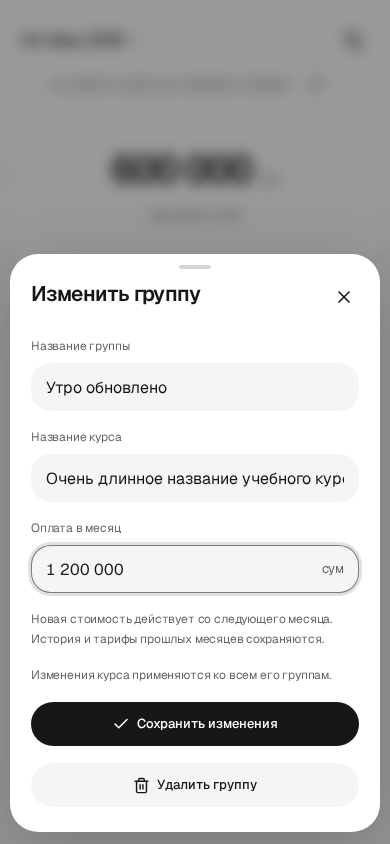
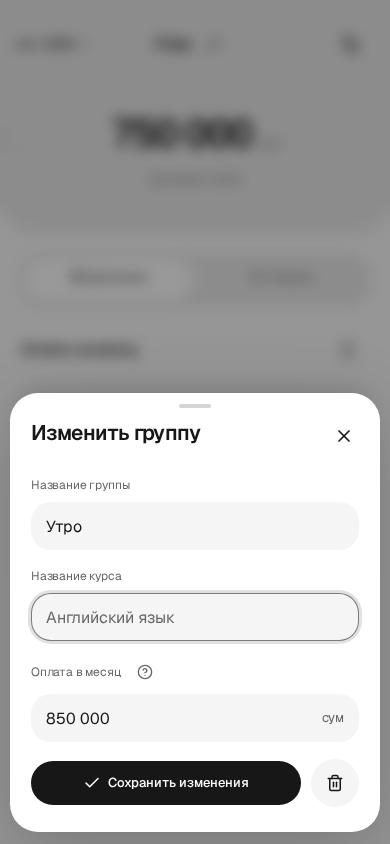
Make group course read-only and move delete beside save

diff --git a/web/Groups.tsx b/web/Groups.tsx
@@ -3,7 +3,7 @@ import { useState, type FormEvent } from 'react';
 import { Check, Plus, Trash2 } from 'lucide-react';
 import { groupPatchSchema, groupSchema, type Course, type Group } from '../src/contracts';
 import { api, ApiError } from './api';
-import { AmountField, ConfirmDelete, Spinner, StudentSelect } from './components';
+import { AmountField, ConfirmDelete, Spinner, StudentSelect, Tip } from './components';
 import { useI18n } from './i18n';
 
 export type GroupDraft = { name: string; courseId: string };
@@ -127,7 +127,6 @@ export function GroupEditor({
 }) {
   const { t } = useI18n();
   const [name, setName] = useState(group.name);
-  const [courseName, setCourseName] = useState(group.courseName);
   const [amount, setAmount] = useState(moneyInput(group.monthlyAmount, group.currency));
   const [busy, setBusy] = useState(false);
   const [error, setError] = useState('');
@@ -138,7 +137,6 @@ export function GroupEditor({
     if (busy) return;
     const parsed = groupPatchSchema.safeParse({
       name,
-      courseName,
       monthlyAmount: parseMoneyInput(amount, group.currency),
     });
     if (!parsed.success) {
@@ -176,43 +174,30 @@ export function GroupEditor({
     <>
       <form className="form" onSubmit={submit} noValidate aria-busy={busy}>
         <fieldset disabled={busy}>
-          {[
-            {
-              id: 'edit-group-name',
-              key: 'name',
-              label: t('Название группы'),
-              value: name,
-              onChange: setName,
-            },
-            {
-              id: 'edit-course-name',
-              key: 'courseName',
-              label: t('Название курса'),
-              value: courseName,
-              onChange: setCourseName,
-            },
-          ].map((field) => (
-            <label className="field" key={field.id} htmlFor={field.id}>
-              <span>{field.label}</span>
-              <input
-                id={field.id}
-                value={field.value}
-                maxLength={80}
-                required
-                onChange={(event) => {
-                  field.onChange(event.target.value);
-                  setErrors({});
-                }}
-                aria-invalid={Boolean(errors[field.key])}
-                aria-describedby={errors[field.key] ? `${field.id}-error` : undefined}
-              />
-              {errors[field.key] && (
-                <span className="field-error" id={`${field.id}-error`}>
-                  {t(errors[field.key]![0]!)}
-                </span>
-              )}
-            </label>
-          ))}
+          <label className="field" htmlFor="edit-group-name">
+            <span>{t('Название группы')}</span>
+            <input
+              id="edit-group-name"
+              value={name}
+              maxLength={80}
+              required
+              onChange={(event) => {
+                setName(event.target.value);
+                setErrors({});
+              }}
+              aria-invalid={Boolean(errors.name)}
+              aria-describedby={errors.name ? 'edit-group-name-error' : undefined}
+            />
+            {errors.name && (
+              <span className="field-error" id="edit-group-name-error">
+                {t(errors.name[0]!)}
+              </span>
+            )}
+          </label>
+          <label className="field" htmlFor="edit-course-name">
+            <span>{t('Название курса')}</span>
+            <input id="edit-course-name" value={group.courseName} readOnly />
+          </label>
           <AmountField
             id="edit-group-amount"
             label={t('Оплата в месяц')}
@@ -230,22 +215,26 @@ export function GroupEditor({
               {t(error)}
             </p>
           )}
-          <button className="button primary full" type="submit" disabled={busy}>
-            {busy ? <Spinner /> : <Check size={18} />}
-            {t('Сохранить изменения')}
-          </button>
-          <button
-            className="button secondary full danger-text"
-            type="button"
-            disabled={busy}
-            onClick={() => {
-              setError('');
-              setConfirm(true);
-            }}
-          >
-            <Trash2 size={17} />
-            {t('Удалить группу')}
-          </button>
+          <div className="form-actions">
+            <button className="button primary" type="submit" disabled={busy}>
+              {busy ? <Spinner /> : <Check size={18} />}
+              {t('Сохранить изменения')}
+            </button>
+            <Tip label={t('Удалить группу')}>
+              <button
+                className="button secondary round-action danger-text"
+                type="button"
+                aria-label={t('Удалить группу')}
+                disabled={busy}
+                onClick={() => {
+                  setError('');
+                  setConfirm(true);
+                }}
+              >
+                <Trash2 size={18} />
+              </button>
+            </Tip>
+          </div>
         </fieldset>
       </form>
       <ConfirmDelete

diff --git a/web/style.css b/web/style.css
@@ -2240,3 +2240,8 @@ html.theme-revealing::view-transition-old(root) {
 .wallet-group-name:not(:has(.group-edit-button)) .hero-group-copy {
   max-width: 100%;
 }
+
+.field input[readonly] {
+  color: var(--muted);
+  cursor: default;
+}

diff --git a/docs/VERIFICATION.md b/docs/VERIFICATION.md
@@ -187,3 +187,11 @@ Popover открывается нажатием/тапом и hover мыши; н
 Проверка на отдельной in-memory БД: пустые обе вкладки, создание группы через создание курса и возврат без потери черновика, автоматический выбор нового курса, точный groupId в POST ученика, короткое название с соседним карандашом, длинные названия на 360/390/720/1280px без переполнения, reduced-motion, закрепление строки при scrollY=900 и работа её кнопок. Светлая и тёмная темы прошли axe WCAG AA с прежним исключением meta-viewport. Снимки: wallet-light.png, wallet-dark.png, group-student-form.png, wallet-sticky.png. TypeScript, production-сборка и ESLint пройдены. Серверные расчёты и рабочая БД не менялись.
 
 Дополнительно проверены удержание → перемещение пальца → отпускание для выбора группы без смены месяца, клавиатурная навигация и axe в раскрытых списках с длинными названиями. Ошибок JavaScript нет. Сканирование исходников и сборки на рабочие секреты пройдено. Статика опубликована атомарной заменой HTML с сохранением старых assets; анонимная проверка локального адреса и прежнего Cloudflare URL подтвердила /health 200 и точное совпадение HTML/JS/CSS с проверенной сборкой. Физический iPhone/Safari в этом проходе не проверялся.
+
+## Неизменяемое поле курса в редактировании группы
+
+Поле «Название курса» в форме группы доступно только для чтения, его значение не включается в PATCH. Название группы и месячная сумма остаются редактируемыми. Удаление перенесено в круглую кнопку с одной иконкой справа от «Сохранить изменения»; сохранены доступное имя, подсказка и отдельное подтверждение.
+
+Изолированный Chromium/Playwright-проход пройден: ввод не меняет курс; запрос не содержит courseName/courseId; имя и сумма сохраняются без изменения текущего тарифа; кнопки выровнены по центру на 360/390/720/1280px без переполнения; отмена подтверждения возвращает фокус на корзину; подтверждение удаляет только выбранную группу в тестовой in-memory БД. Светлая и тёмная темы прошли axe WCAG AA с прежним исключением meta-viewport; ошибок JavaScript нет. Обновлены group-edit.png и group-delete-confirm.png. TypeScript, production-сборка, ESLint, Prettier и проверка отсутствия рабочих секретов пройдены.
+
+Опубликована проверенная статика: /health отвечает 200 на локальном адресе и прежнем Cloudflare URL, HTML и связанные JS/CSS совпадают с тестовой сборкой. Рабочая база и серверная логика не менялись.

diff --git a/README.md b/README.md
@@ -184,7 +184,7 @@ curl -i -X DELETE "$BASE/students/1"
 
 Для совместимости прежние API-варианты `{name, phone, courseId}` и `{name, phone, group, monthlyAmount}` ещё принимаются: они находят/создают отдельную группу соответствующего курса. Они не меняют курс существующей группы. Смешивать groupId с независимыми courseId/ценой запрещено.
 
-`PATCH /groups/:id` принимает `{name?, courseName?, monthlyAmount?}` и атомарно меняет название группы и параметры её курса. Курс группы остаётся фиксированным; правка курса относится ко всем его группам. Доступ — через карандаш возле названия в hero.
+`PATCH /groups/:id` принимает `{name?, courseName?, monthlyAmount?}` и атомарно меняет название группы и параметры её курса. Курс группы остаётся фиксированным; правка курса относится ко всем его группам. Доступ — через карандаш возле названия в hero. В веб-форме название курса доступно только для чтения и не отправляется при сохранении группы; можно изменить название группы и месячную стоимость. Круглая кнопка удаления с иконкой находится справа от «Сохранить изменения», требует подтверждения.
 
 `DELETE /groups/:id` удаляет группу, только её учеников, их оплаты и Telegram-квитанции в одной транзакции. Общий курс остаётся, если его используют другие группы; иначе удаляется вместе с версиями тарифа. В drawer удаления открывается маленькое модальное окно с вопросом «Действия необратимы. Вы согласны?» и кнопками «Отмена» / «Удалить всё», начальный фокус на отмене.
 
